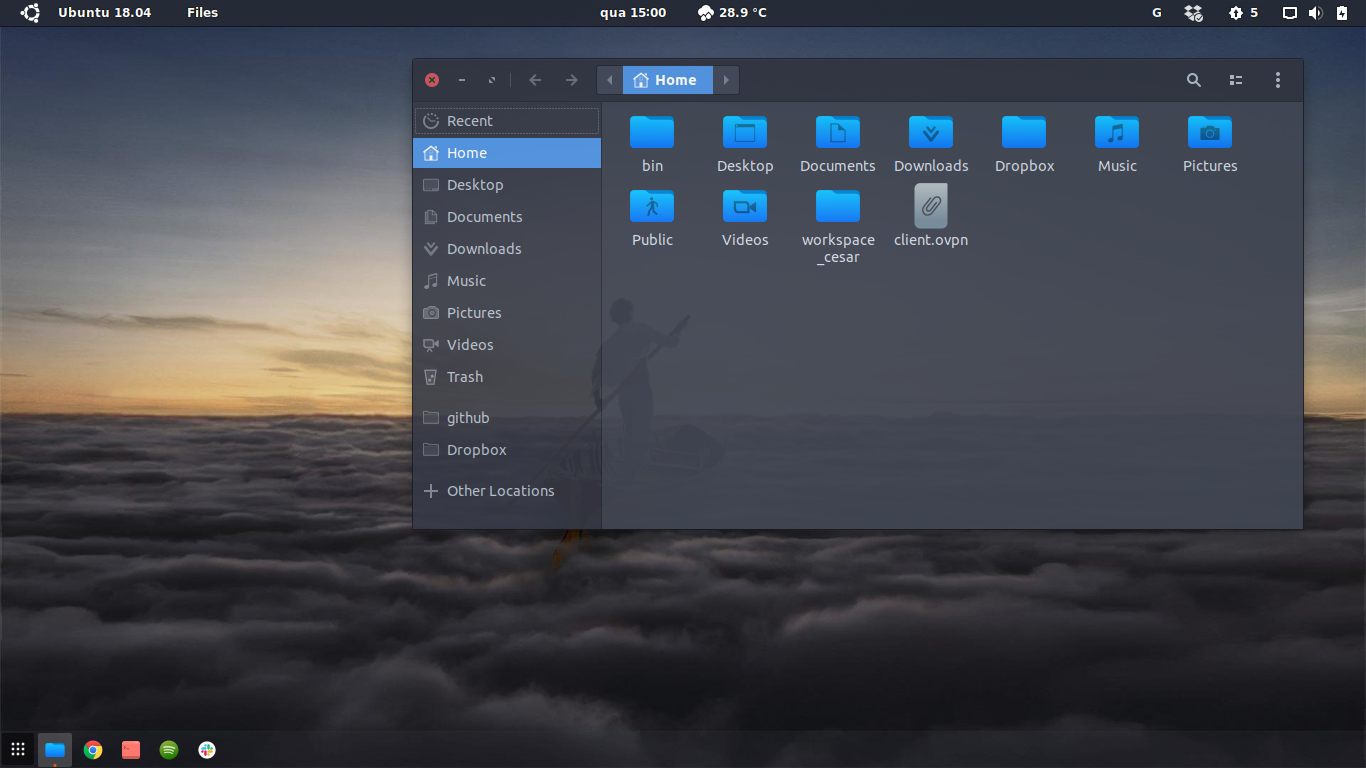
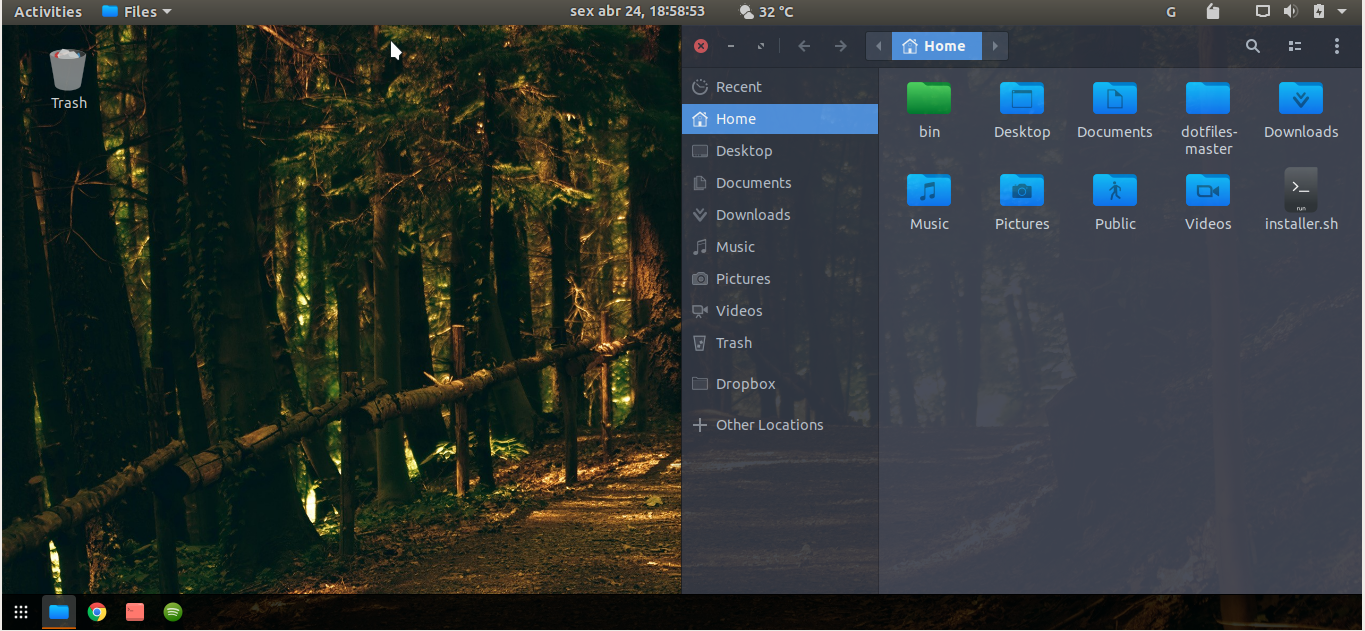
update README

diff --git a/README.md b/README.md
@@ -8,11 +8,11 @@
 </p>
 
 <p align="center">
+  <a href="https://img.shields.io/badge/ubuntu-20.04-4A0048.svg">
+    <img src="https://img.shields.io/badge/ubuntu-20.04-4A0048.svg">
+  </a>
   <a href="https://img.shields.io/badge/ubuntu-18.04-E95420.svg">
     <img src="https://img.shields.io/badge/ubuntu-18.04-E95420.svg">
-  </a>
-  <a href="https://img.shields.io/badge/ubuntu-19.04-77216F.svg">
-    <img src="https://img.shields.io/badge/ubuntu-19.04-77216F.svg">
   </a>
   <a href="https://img.shields.io/badge/language-shell-43A047.svg">
     <img src="https://img.shields.io/badge/language-shell-43A047.svg">
@@ -36,19 +36,19 @@ In this repository have some scripts:
 
 ## 1. `install_extensions.sh`
 This script install Gnome extensions that i use:
+- [Dash-to-Dock](https://extensions.gnome.org/extension/307/dash-to-dock/)
 - [Blyr](https://extensions.gnome.org/extension/1251/blyr/)
 - [Apt-Update-Indicator](https://extensions.gnome.org/extension/1139/apt-update-indicator/)
+- [Activities-Configurator](https://extensions.gnome.org/extension/358/activities-configurator/)
 - [Glassy-Gnome](https://extensions.gnome.org/extension/982/glassy-gnome/)
 - [OpenWeather](https://extensions.gnome.org/extension/750/openweather/)
 - [User-Theme](https://extensions.gnome.org/extension/19/user-themes/)
 
-And apply some configs:
-- OpenWeather Unit: celsius
-- OpenWeather wind-speed-unit: kph
-- Apt-Update-Indicator update-cmd-options: update-manager
-- Set Dash position do BOTTOM
-- Change Dash icon size to 20
-- Change 'show apps' button to the left
+**OBS:** After run `install_extensions.sh` in Ubuntu 20.04, is necessary make log-out and when log-in again, restart the Gnome with:
+```
+ALT + F2
+r
+```
 
 ## 2. `install_preferences.sh`
 This script apply some config Gnome preferences that i use:
@@ -63,6 +63,18 @@ This script apply some config Gnome preferences that i use:
 - set clock configs (show seconds and show date)
 - apply file manager bookmarks
 - set [wallpaper](https://github.com/linux-ricing-project/Ubuntu-Gnome/blob/master/wallpaper/wallpaper.jpg) and lock-screen
+- set GDM profile picture
+- [OpenWeather] Unit: celsius
+- [OpenWeather] wind-speed-unit: kph
+- [Apt-Update-Indicator] update-cmd-options: update-manager
+- [Dash-to-Dock] background-color "#000000"
+- [Dash-to-Dock] custom-theme-running-dots-border-color "#CE5C00"
+- [Dash-to-Dock] icon-size 20
+- [Dash-to-Dock] always visible
+- [Dash-to-Dock] set to BOTTOM
+- [Dash-to-Dock] set "show-apps" to the left position
+- [Activities-Configurator] change icon to ubuntu-logo
+- [Activities-Configurator] change text to ubuntu-version
 
 ***Shortcuts:**
 | Command | Shortcut |
@@ -71,6 +83,15 @@ This script apply some config Gnome preferences that i use:
 
 ## 3. `install_themes_and_icons.sh`
 This script install and apply my Gnome customizations:
+### Ubuntu 20.04 installation
+| Theme | Name | Apply |
+| ------ | ------ | ------ |
+| GTK | [Nordic](https://github.com/EliverLara/Nordic) | YES
+| Gnome-Shell | [Flat-Remix](https://github.com/daniruiz/flat-remix-gnome) | YES
+| Icons | [Korla](https://github.com/bikass/korla) + [Korla Folders](https://github.com/bikass/korla-folders) | YES
+| Cursor | [Breeze](https://www.gnome-look.org/p/999991/) | YES
+
+### Ubuntu 18.04 installation
 | Theme | Name | Apply |
 | ------ | ------ | ------ |
 | GTK | [Arc-Dark](https://github.com/horst3180/arc-theme) | YES
@@ -80,6 +101,13 @@ This script install and apply my Gnome customizations:
 
 ### Example:
 
+<img src="images/ubuntu_20.04_screenshot.png"/>
+
+This image show the **Ubuntu 20.04** after run all scripts.
+
+<img src="images/ubuntu 20.04_gdm_screenshot.png"/>
+
+GDM profile picture
 
 <img src="images/ubuntu_18.04_screenshot.png"/>
 
